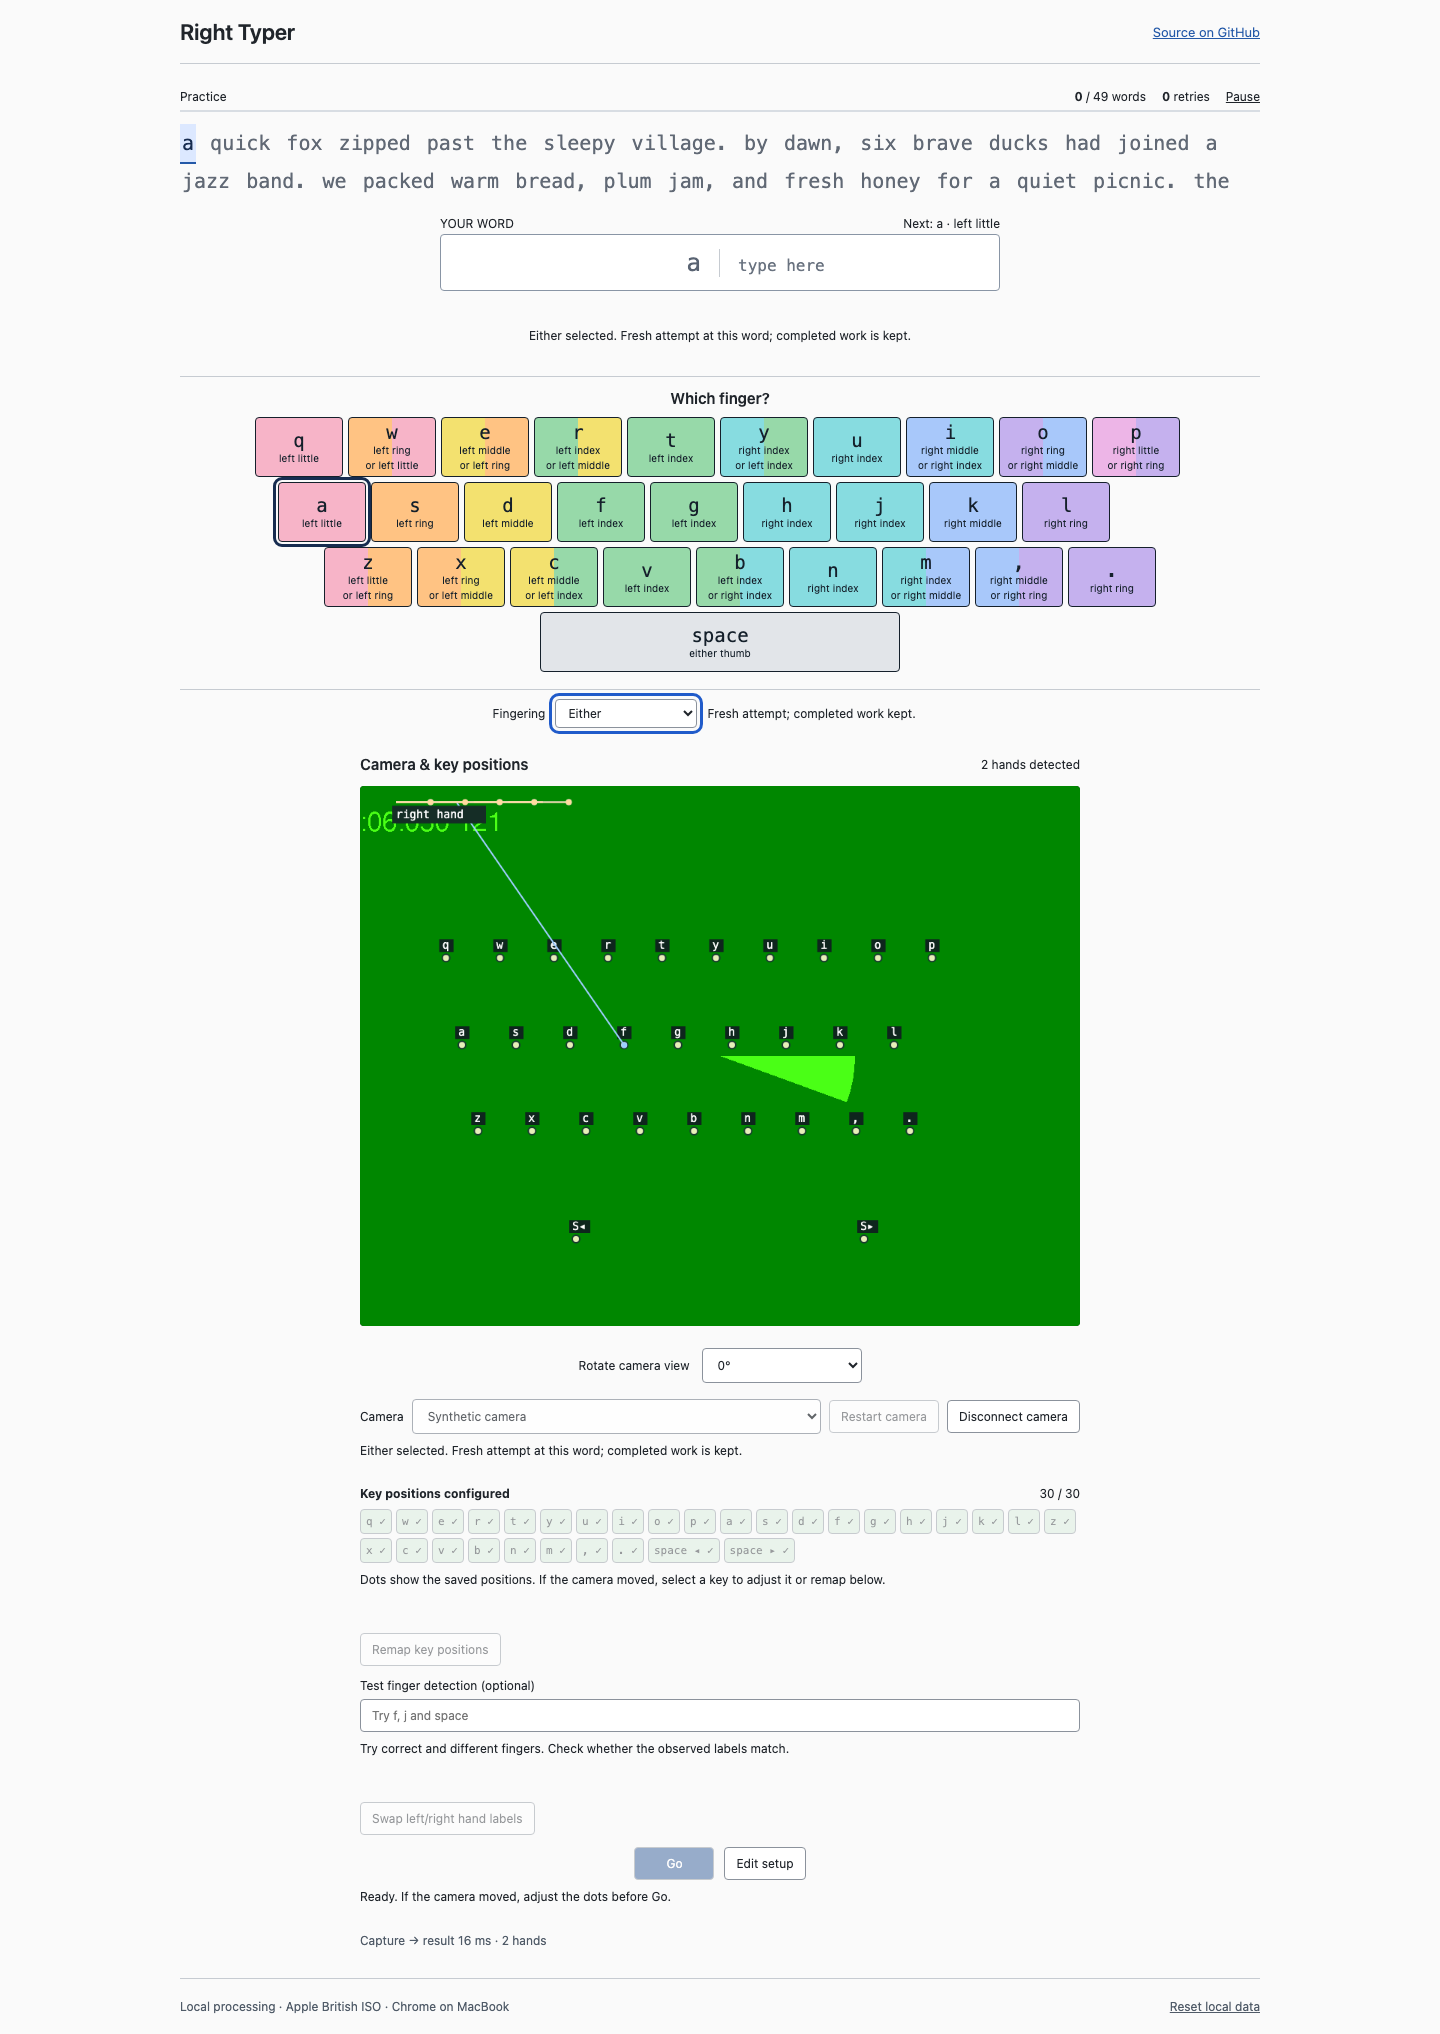
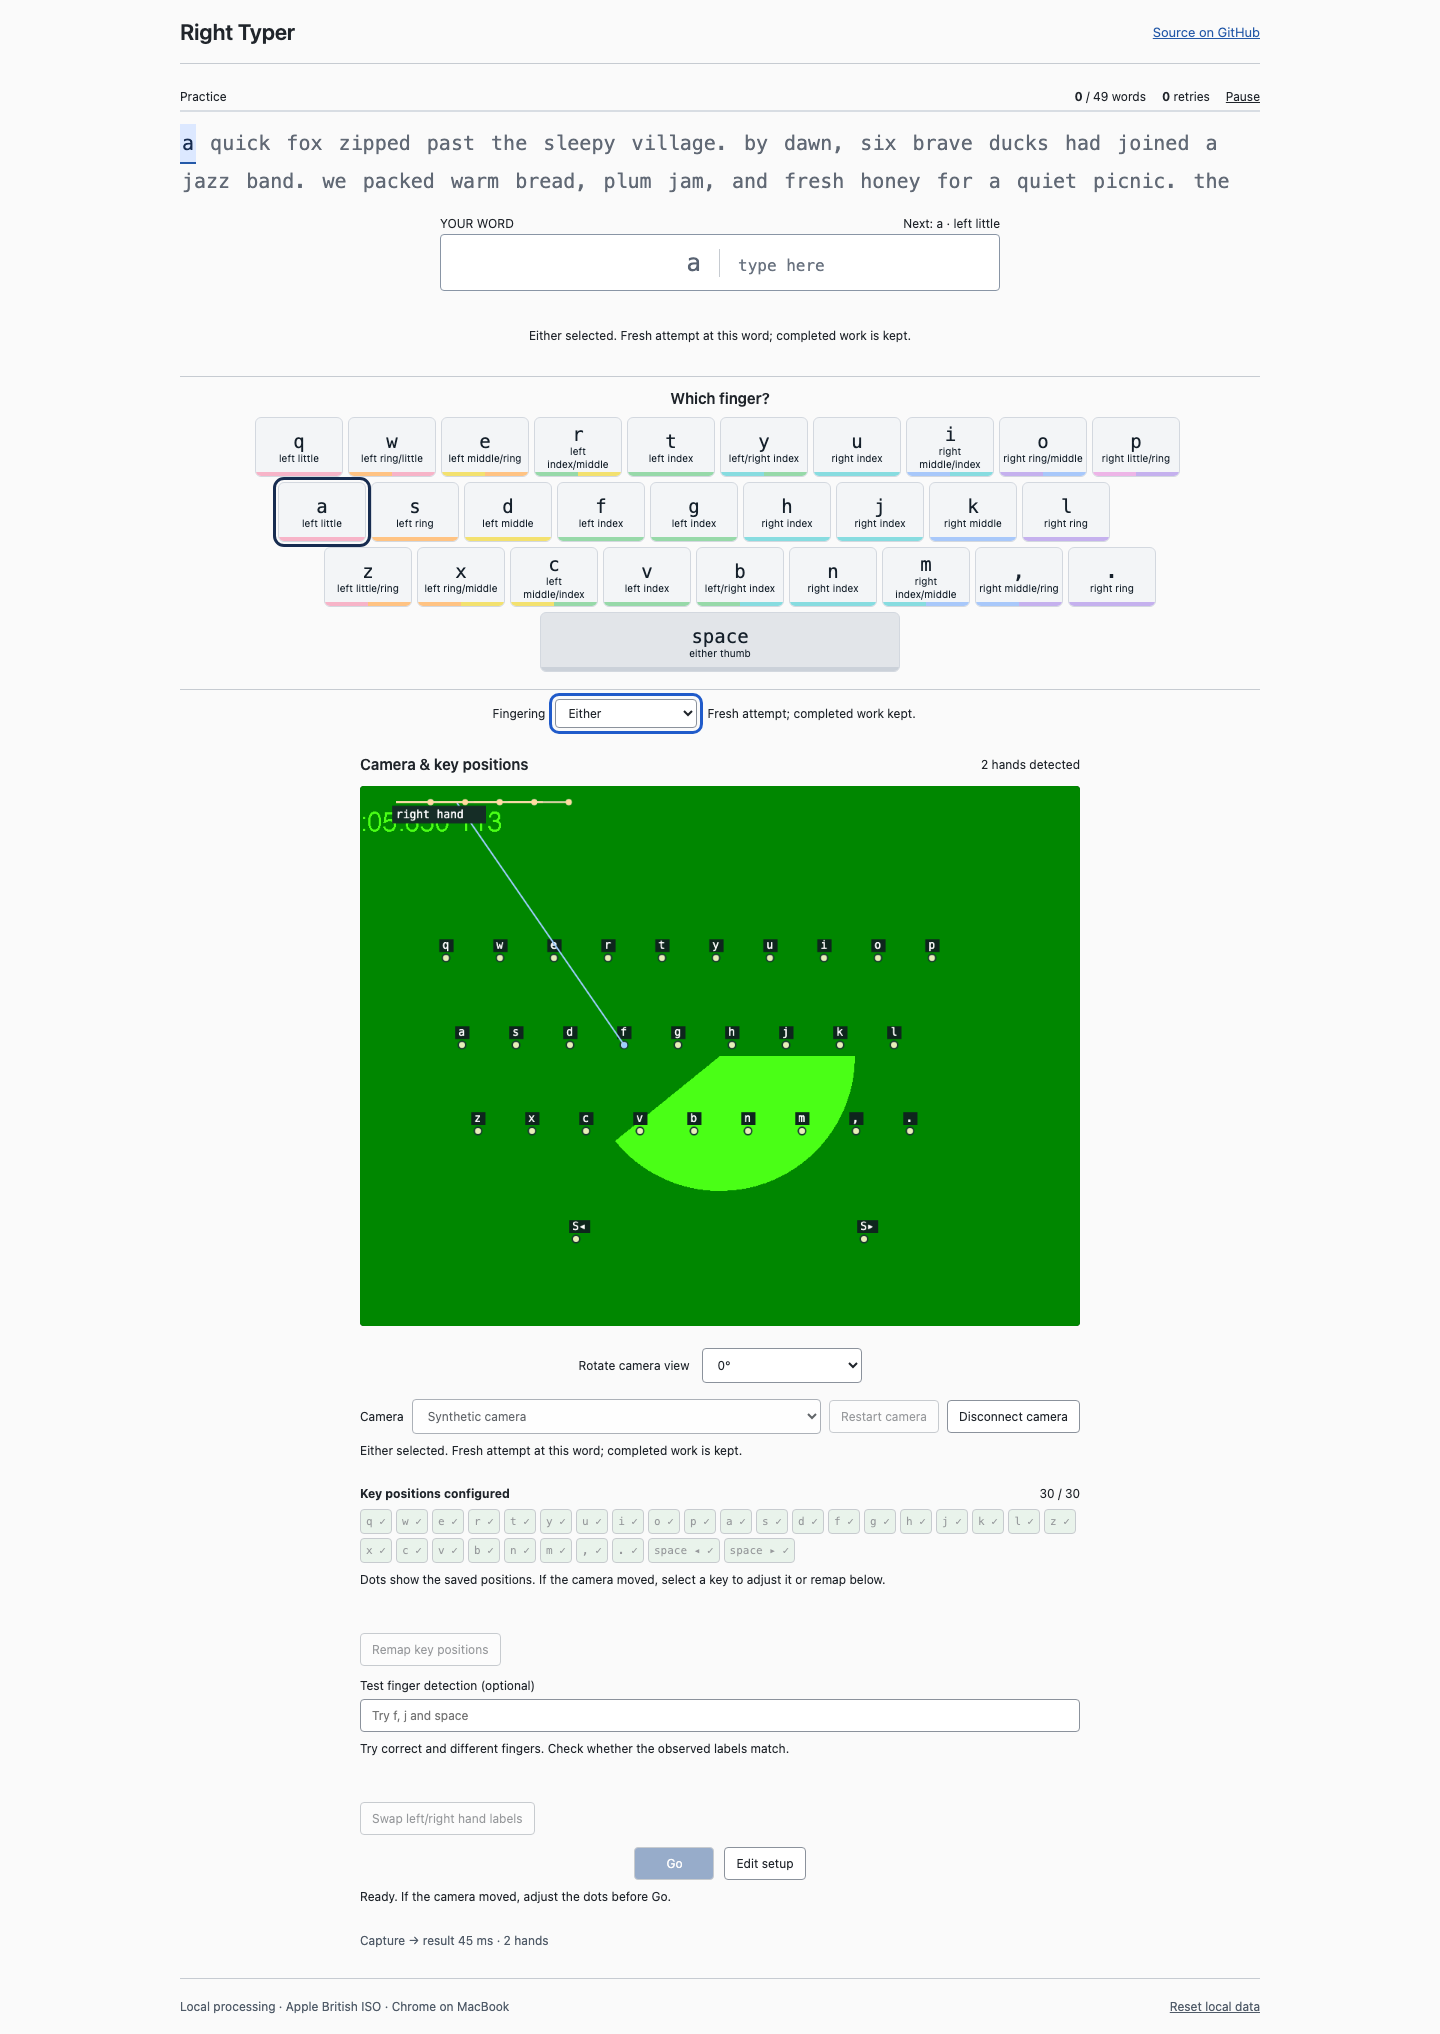
Soften keyboard colours and shorten finger labels (#14)

Changed region(s): [[0.1562, 0.1858, 0.8438, 0.3097], [0.4375, 0.4956, 0.5938, 0.5885]]

diff --git a/src/main.ts b/src/main.ts
@@ -116,11 +116,21 @@ function keyboard() {
   const key = (k: string) => {
     const fingers = allowedFingers(k, fingeringMode);
     const label = intended(k, fingeringMode);
+    const names = fingers.map(fingerName);
+    const [first, second] = fingers;
+    const compactLabel =
+      k === ' '
+        ? label
+        : first && second && first.split('-')[0] === second.split('-')[0]
+          ? `${names[0]}/${second.split('-')[1]}`
+          : first && second && first.split('-')[1] === second.split('-')[1]
+            ? `left/right ${first.split('-')[1]}`
+            : names.join('/');
     const background =
       fingers.length === 2 && k !== ' '
-        ? `background:linear-gradient(90deg,var(--${fingers[0]}) 50%,var(--${fingers[1]}) 50%)`
+        ? `--key-accent:linear-gradient(90deg,var(--${fingers[0]}) 50%,var(--${fingers[1]}) 50%)`
         : '';
-    return `<span class="key ${k === ' ' ? 'space-key' : `finger-${fingers[0]}`}" style="${background}" title="${label}" aria-label="${keyName(k)}: ${label}" data-key="${k}"><b>${k === ' ' ? 'space' : k}</b><small>${label.replace(' or ', '<br/>or ')}</small></span>`;
+    return `<span class="key ${k === ' ' ? 'space-key' : `finger-${fingers[0]}`}" style="${background}" title="${label}" aria-label="${keyName(k)}: ${label}" data-key="${k}"><b>${k === ' ' ? 'space' : k}</b><small>${compactLabel}</small></span>`;
   };
   return `<h2>Which finger?</h2><div class="keyboard">${ROWS.map((row, i) => `<div class="key-row row-${i}">${[...row].map(key).join('')}</div>`).join('')}<div class="key-row">${key(' ')}</div></div>`;
 }

diff --git a/src/style.css b/src/style.css
@@ -262,41 +262,53 @@ main {
   align-items: center;
   width: 88px;
   height: 60px;
-  border: 1px solid currentColor;
-  border-radius: 4px;
+  position: relative;
+  overflow: hidden;
+  border: 1px solid #d3d8df;
+  border-radius: 6px;
+  background: #f3f5f7;
   color: #15202b;
+}
+.key::after {
+  content: '';
+  position: absolute;
+  inset: auto 0 0;
+  height: 4px;
+  background: var(--key-accent, #cbd1d9);
 }
 .key b {
   font: 19px var(--mono);
 }
 .key small {
   font-size: 10px;
-  line-height: 1.5;
+  line-height: 1.3;
+  padding: 0 3px;
+  overflow-wrap: anywhere;
   text-align: center;
 }
 .finger-left-little {
-  background: var(--left-little);
+  --key-accent: var(--left-little);
 }
 .finger-left-ring {
-  background: var(--left-ring);
+  --key-accent: var(--left-ring);
 }
 .finger-left-middle {
-  background: var(--left-middle);
+  --key-accent: var(--left-middle);
 }
 .finger-left-index {
-  background: var(--left-index);
+  --key-accent: var(--left-index);
 }
 .finger-right-index {
-  background: var(--right-index);
+  --key-accent: var(--right-index);
 }
 .finger-right-middle {
-  background: var(--right-middle);
+  --key-accent: var(--right-middle);
 }
 .finger-right-ring {
-  background: var(--right-ring);
+  --key-accent: var(--right-ring);
 }
 .finger-right-little {
-  background: var(--right-little);
+  --key-accent: var(--right-little);
 }
 .space-key {
   width: 360px;

diff --git a/e2e/fingering.spec.ts b/e2e/fingering.spec.ts
@@ -35,7 +35,7 @@ test('policies update labels, hints, errors and preserve camera geometry; refres
       const cell = page.locator(`[data-key="${key}"]`);
       await expect(cell).toHaveAttribute('title', intended(key, value));
       await expect(cell).toHaveAttribute('aria-label', new RegExp(intended(key, value)));
-      const split = await cell.evaluate((el) => getComputedStyle(el).backgroundImage);
+      const split = await cell.evaluate((el) => getComputedStyle(el, '::after').backgroundImage);
       expect(split.includes('linear-gradient')).toBe(
         key !== ' ' && allowedFingers(key, value).length === 2,
       );
